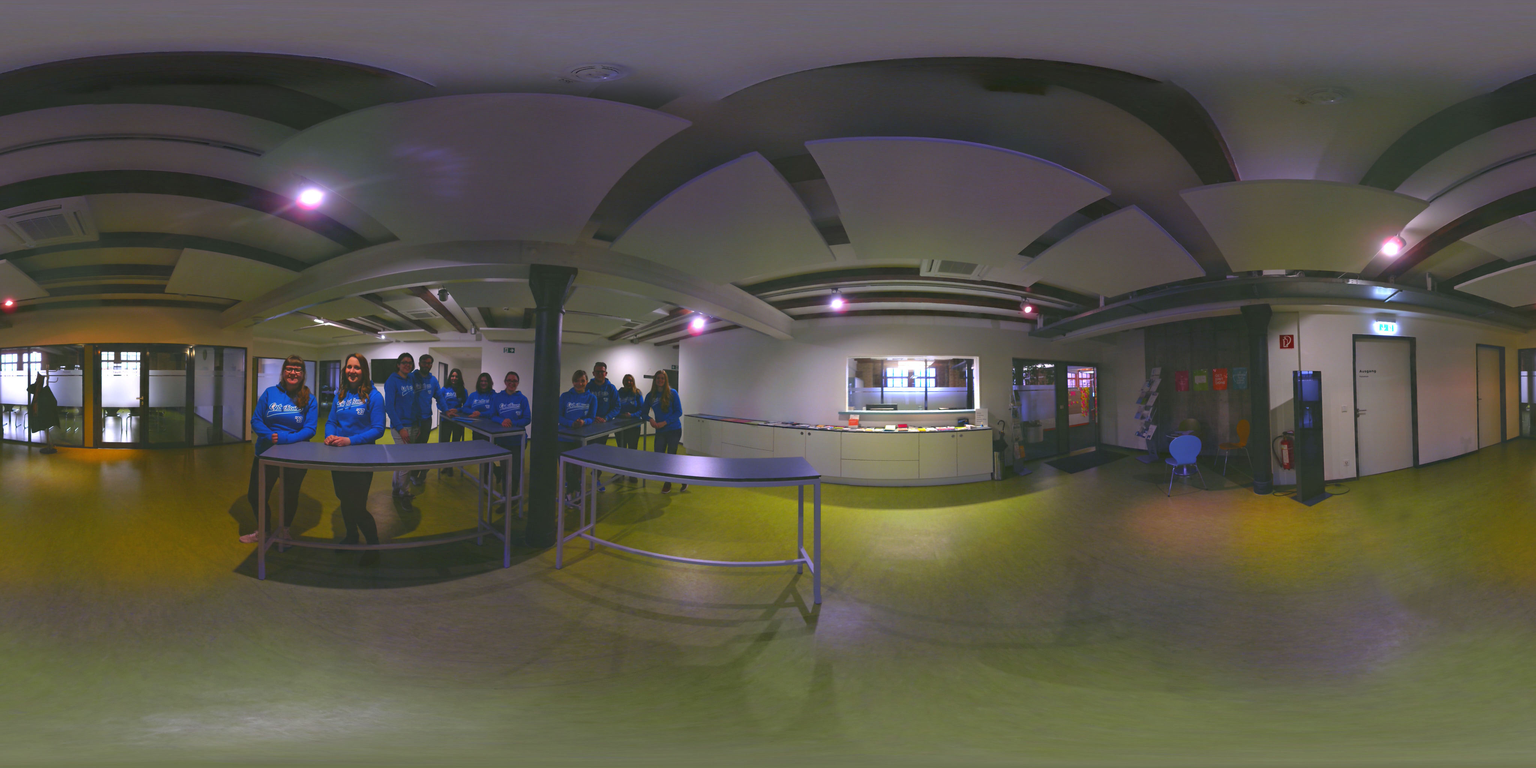
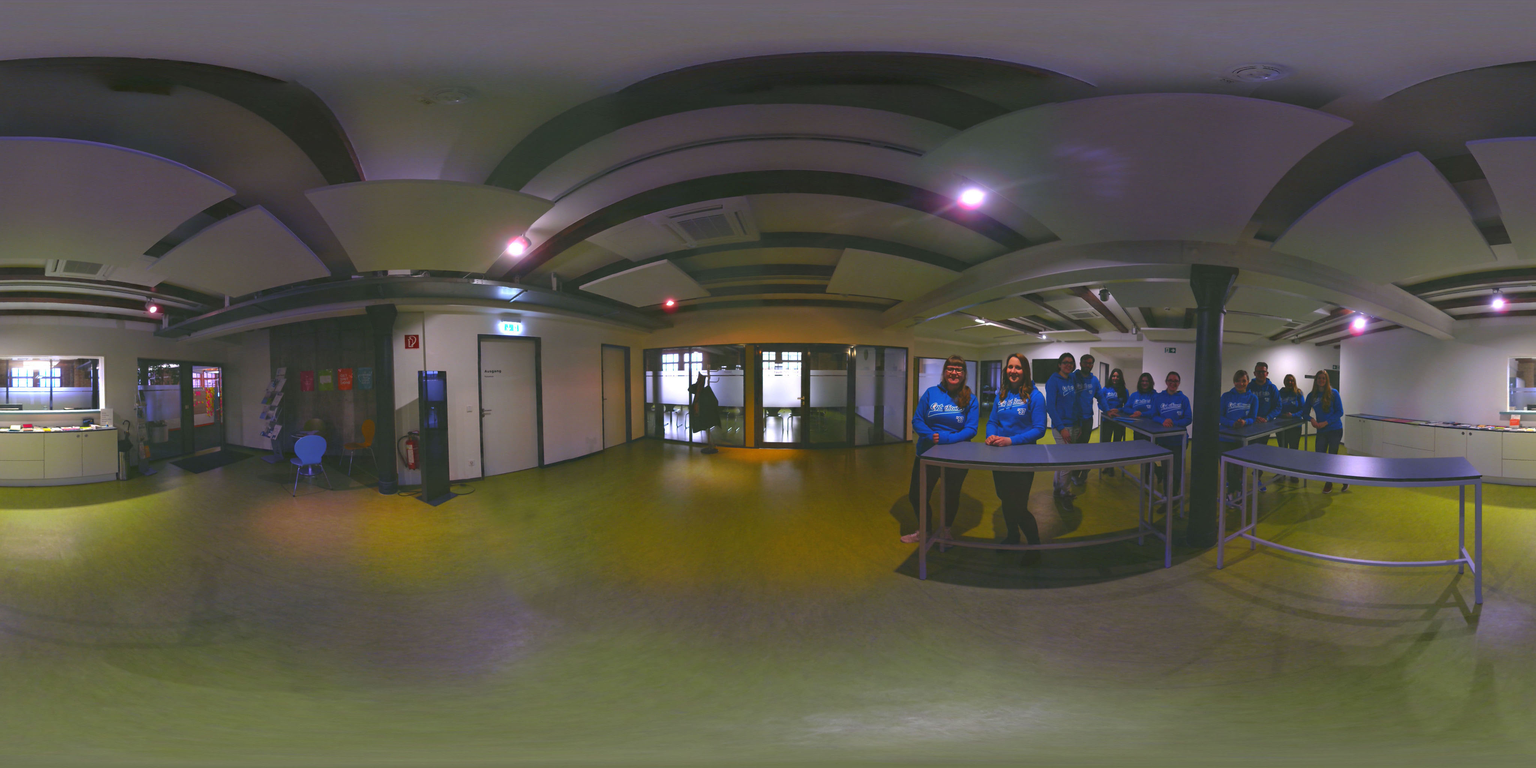
- fix cyberforum tour texture rotation - toggle full screen mode on touch

diff --git a/03 Code/Source/Visit Bluehands/Assets/VirtualVisit/Scripts/AppController.cs b/03 Code/Source/Visit Bluehands/Assets/VirtualVisit/Scripts/AppController.cs
@@ -1,62 +1,67 @@
 using UnityEngine;
 using UnityEngine.SceneManagement;
 
-public class AppController : MonoBehaviour, SwitchTourListener {
+namespace Assets.VirtualVisit.Scripts
+{
+    public class AppController : MonoBehaviour, SwitchTourListener {
 
-    public VisitController visitControllerPrefab;
+        public VisitController VisitControllerPrefab;
+        public FollowingDisplay FollowingDisplayPrefab;
+        public FollowingMenu FollowingMenuPrefab;
+        public string StartVisit;
 
-    public FollowingDisplay followingDisplayPrefab;
+        private VisitController _visitController;
+        private FollowingDisplay _followingDisplay;
+        private FollowingMenu _followingMenu;
+        private VisitSettingsFactory _visitSettingsFactory;
 
-    public FollowingMenu followingMenuPrefab;
+        internal void Start() {
+            QualitySettings.antiAliasing = 2;
 
-    public string startVisit;
-
-    private VisitController m_VisitController;
-
-    private FollowingDisplay m_FollowingDisplay;
-
-    private FollowingMenu m_FollowingMenu;
-
-    private VisitSettingsFactory m_VisitSettingsFactory;
-
-    void Start () {
-        QualitySettings.antiAliasing = 2;
-
-        beginApp();
-    }
-
-    private void beginApp()
-    {
-        m_VisitSettingsFactory = new VisitSettingsFactory();
-
-        string visitId = ApplicationModel.SelectedVisitId;
-        if (visitId.Equals(""))
-        {
-            visitId = startVisit;
+            BeginApp();
         }
 
-        var visitSetting = m_VisitSettingsFactory.GetVisitSetting(visitId);
-        var visitSettings = m_VisitSettingsFactory.GetVisitSettings();
+        internal void Update()
+        {
+            if (Input.GetTouch(0).phase == TouchPhase.Began)
+            {
+                Screen.fullScreen = !Screen.fullScreen;
+            }
+        }
 
-        m_VisitController = Instantiate(visitControllerPrefab) as VisitController;
-        m_VisitController.Initialize(visitSetting);
+        private void BeginApp()
+        {
+            _visitSettingsFactory = new VisitSettingsFactory();
 
-        m_FollowingDisplay = Instantiate(followingDisplayPrefab) as FollowingDisplay;
-        m_FollowingDisplay.Initialize(visitSettings, this);
+            string visitId = ApplicationModel.SelectedVisitId;
+            if (visitId.Equals(""))
+            {
+                visitId = StartVisit;
+            }
 
-        m_FollowingMenu = Instantiate(followingMenuPrefab) as FollowingMenu;
-        m_FollowingMenu.Initialize(m_FollowingDisplay);
+            var visitSetting = _visitSettingsFactory.GetVisitSetting(visitId);
+            var visitSettings = _visitSettingsFactory.GetVisitSettings();
 
-        m_FollowingDisplay.addListener(m_VisitController);
-        m_FollowingDisplay.addListener(m_FollowingMenu);
+            _visitController = Instantiate(VisitControllerPrefab);
+            _visitController.Initialize(visitSetting);
 
-        m_FollowingDisplay.close();
-    }
+            _followingDisplay = Instantiate(FollowingDisplayPrefab);
+            _followingDisplay.Initialize(visitSettings, this);
 
-    public void SwitchTour(string nextVisitId)
-    {
-        ApplicationModel.SelectedVisitId = nextVisitId;
+            _followingMenu = Instantiate(FollowingMenuPrefab);
+            _followingMenu.Initialize(_followingDisplay);
 
-        SceneManager.LoadScene(0);
+            _followingDisplay.addListener(_visitController);
+            _followingDisplay.addListener(_followingMenu);
+
+            _followingDisplay.close();
+        }
+
+        public void SwitchTour(string nextVisitId)
+        {
+            ApplicationModel.SelectedVisitId = nextVisitId;
+
+            SceneManager.LoadScene(0);
+        }
     }
 }
